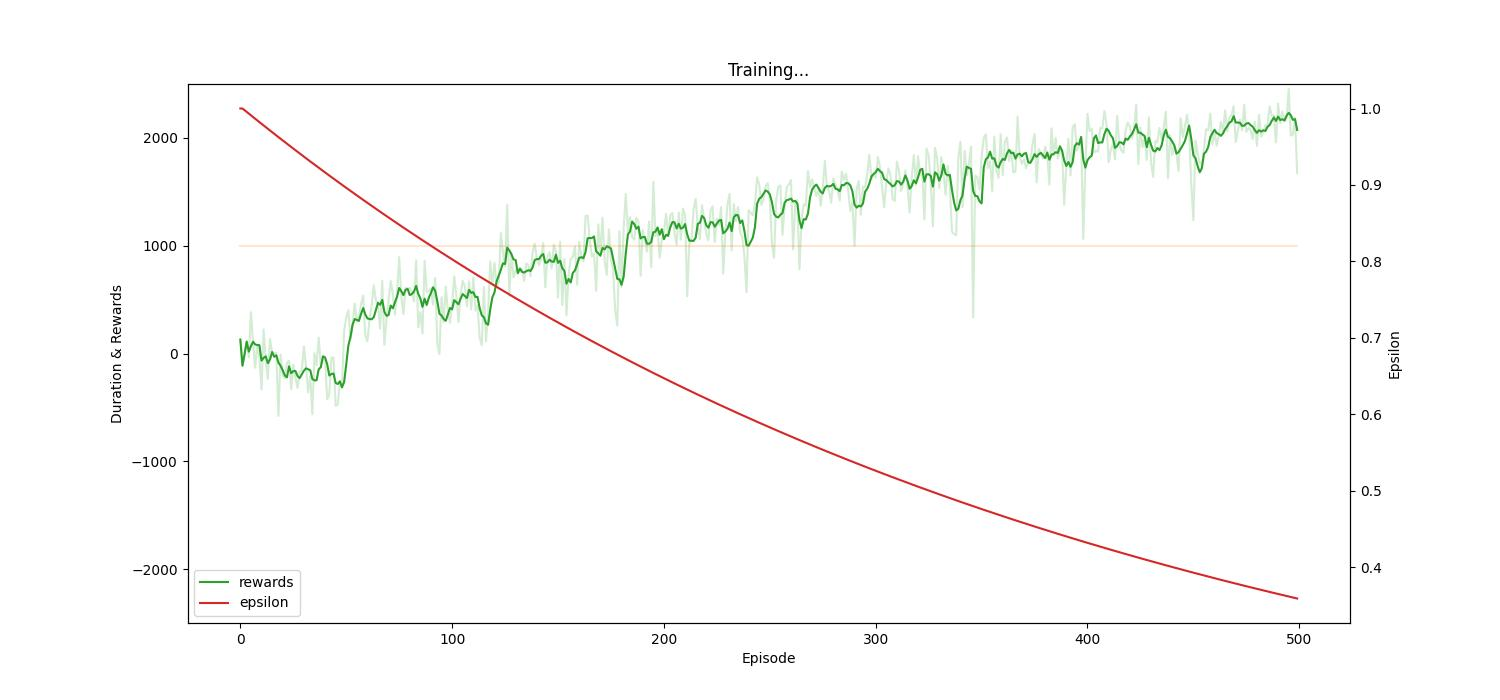
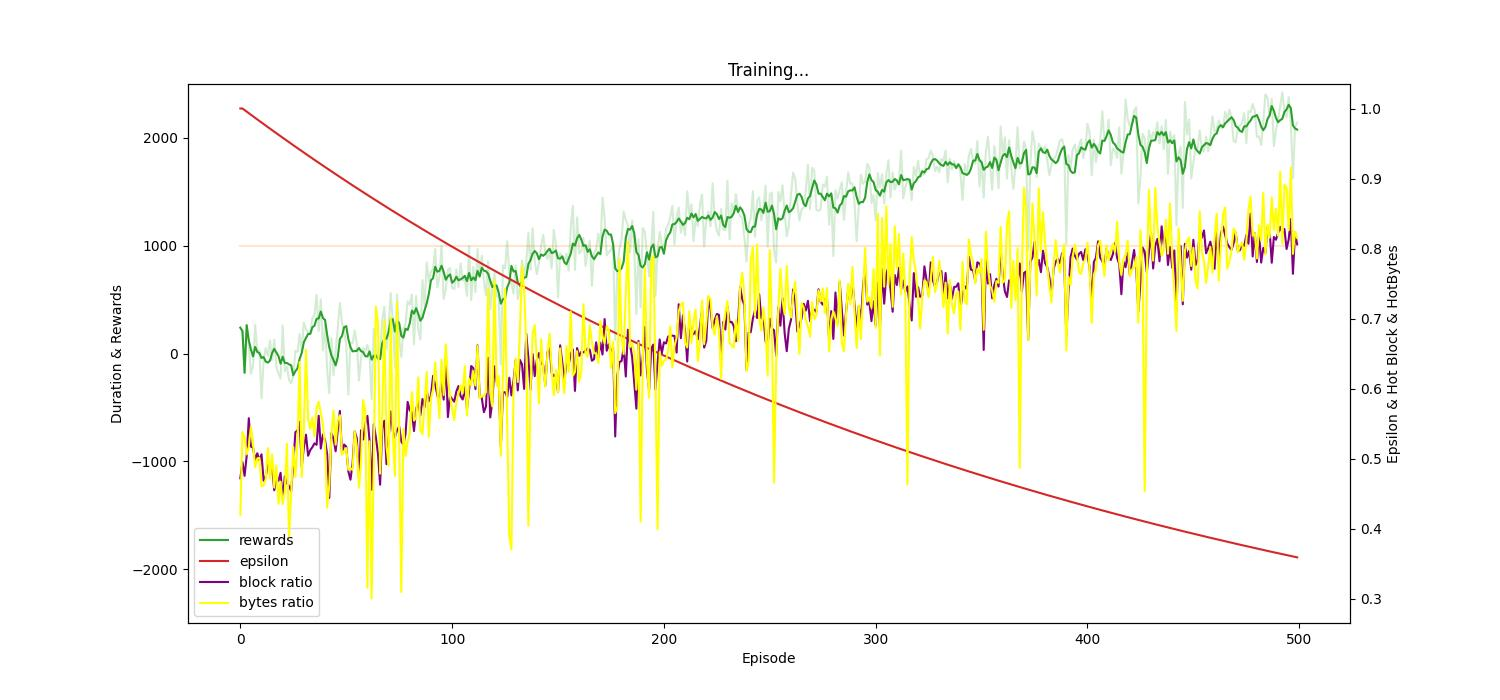
add hot cold ration

diff --git a/python/environment/memory.py b/python/environment/memory.py
@@ -8,6 +8,23 @@ class LogicAddress:
         self._offset = offset  
         self._type = type
 
+        # 檢查兩個Address是否完全一樣
+    def __eq__(self, __o: object) -> bool:
+        if isinstance(__o, LogicAddress):
+            return (self._address == __o._address) and (self._offset == __o._offset) and (self._type == __o._type)
+        return False 
+
+    # print 時顯示的字元
+    def __repr__(self) -> str:
+        return f'[LogicAddress]Address: {self._address}, Offset: {self._offset}, Type: {self._type}'
+
+    # 定義好比較的定義來讓原生的Sort可以運作
+    def __lt__(self, other):
+        if self._address <= other._address:
+            return True
+        elif self._address > other._address:
+            return False
+
     def SetOffset(self, offset: int) -> None:
         self._offset = offset
 
@@ -23,30 +40,20 @@ class LogicAddress:
             raise TypeError('Invalid Type: Not LogicAddress')
         return GetTwoRangeIntersection(self._address, self._address + self._offset, other._address, other._address + other._offset)
 
-    # 檢查兩個Address是否完全一樣
-    def __eq__(self, __o: object) -> bool:
-        if isinstance(__o, LogicAddress):
-            return (self._address == __o._address) and (self._offset == __o._offset) and (self._type == __o._type)
-        return False 
-
-    # print 時顯示的字元
-    def __str__(self) -> str:
-        return f'[LogicAddress]Address: {self._address}, Offset: {self._offset}, Type: {self._type}'
+class LogicMemory:
+    def __init__(self):
+        self.bits = list()  # set of LogicAddress
 
     # print 時顯示的字元
     def __repr__(self) -> str:
-        return f'[LogicAddress]Address: {self._address}, Offset: {self._offset}, Type: {self._type}'
+        output = ''
+        for item in self.bits:
+            output += f'[LogicAddress]Address: {item._address}, Offset: {item._offset}, Type: {item._type}\n'
+        return output
 
-    # 定義好比較的定義來讓原生的Sort可以運作
-    def __lt__(self, other):
-        if self._address <= other._address:
-            return True
-        elif self._address > other._address:
-            return False
-
-class LogicMemory:
-    def __init__(self):
-        self.bits = list()  # set of LogicBits
+    # 根據address來排列bits 
+    def Sort(self) -> None:
+        self.bits = sorted(self.bits)
 
     # 清除到初始狀態
     def ResetAll(self):
@@ -122,13 +129,24 @@ class LogicMemory:
                 coldDuplicateOffset += tempOriginalLogicAddress.GetDuplicate(newLogicAddress)
         return (hotDuplicateOffset, coldDuplicateOffset) 
 
-    # 根據address來排列bits 
-    def Sort(self) -> None:
-        self.bits = sorted(self.bits)
-
-    # print 時顯示的字元
-    def __repr__(self) -> str:
-        output = ''
-        for item in self.bits:
-            output += f'[LogicAddress]Address: {item._address}, Offset: {item._offset}, Type: {item._type}\n'
-        return output
+    # 取得(Hot, Cold) Block數量
+    def GetHotColdBlockNums(self) -> int:
+        hotCount = 0
+        coldCount = 0
+        for address in self.bits:
+            if address._type:
+                hotCount += 1
+            else:
+                coldCount += 1
+        return (hotCount, coldCount)
+    
+    # 取得(Hot, Cold) Bytes長度
+    def GetHotColdBytes(self) -> int:
+        hotBytes = 0
+        coldBytes = 0
+        for address in self.bits:
+            if address._type:
+                hotBytes += address._offset
+            else:
+                coldBytes += address._offset
+        return (hotBytes, coldBytes)

diff --git a/python/model/agent.py b/python/model/agent.py
@@ -25,6 +25,28 @@ class Agent:
         self._hyperParameter = HyperParameter()
         self._valueNetworks = ValueNetworks()
         self._valueNetworks.SetActionSpace(self._environment._actionSpace)
+
+    # 計算hot cold block ratio
+    def GetHotColdBlockRatio(self) -> tuple:
+        (hot, cold) = self._environment._memory.GetHotColdBlockNums()
+        total = hot + cold
+        hotRatio = 0.0
+        coldRatio = 0.0
+        if total != 0:
+            hotRatio = hot / total 
+            coldRatio = cold / total 
+        return (hotRatio, coldRatio)
+
+    # 計算hot cold bytes ratio
+    def GetHotColdBytesRatio(self) -> tuple:
+        (hot, cold) = self._environment._memory.GetHotColdBytes()
+        total = hot + cold
+        hotRatio = 0.0
+        coldRatio = 0.0
+        if total != 0:
+            hotRatio = hot / total 
+            coldRatio = cold / total 
+        return (hotRatio, coldRatio)
         
     # 每一次的遊戲
     def Episode(self, episode):
@@ -39,8 +61,10 @@ class Agent:
             if episode > WARM_UP_EPISODES:
                 X = self._buffer.GetBatchData(BATCH_SIZE)
                 self._valueNetworks.Optimize(X)
-        self._trainHistory.AddHistory([episode, rewardSum, MAX_STEP, self._hyperParameter._epsilon])
-        return rewardSum 
+        (hotBlockRatio, _) = self.GetHotColdBlockRatio()
+        (hotBytesRatio, _) = self.GetHotColdBytesRatio()
+        self._trainHistory.AddHistory([episode, rewardSum, MAX_STEP, self._hyperParameter._epsilon, hotBlockRatio, hotBytesRatio])
+        return rewardSum
 
     # train 
     def Train(self):

diff --git a/python/model/record.py b/python/model/record.py
@@ -7,12 +7,16 @@ class TrainHistory:
         self.rewards = []
         self.actions = []
         self.epsilon = []
+        self.hotBlock = []
+        self.hotBytes = []
 
     def AddHistory(self, datas):
         self.episodes.append(datas[0])
         self.rewards.append(datas[1])
         self.actions.append(datas[2])
         self.epsilon.append(datas[3])
+        self.hotBlock.append(datas[4])
+        self.hotBytes.append(datas[5])
 
     @staticmethod
     def _moving_average(x, periods=5):
@@ -39,8 +43,10 @@ class TrainHistory:
         mean_reward = self._moving_average(self.rewards, periods=5)
         lines.append(ax1.plot(mean_reward, label="rewards", color="C2")[0])    
         ax2 = ax1.twinx()
-        ax2.set_ylabel('Epsilon')
+        ax2.set_ylabel('Epsilon & Hot Block & HotBytes')
         lines.append(ax2.plot(self.epsilon, label="epsilon", color="C3")[0])
+        lines.append(ax2.plot(self.hotBlock, label="block ratio", color="purple")[0])
+        lines.append(ax2.plot(self.hotBytes, label="bytes ratio", color="yellow")[0])
         labs = [l.get_label() for l in lines]
         ax1.legend(lines, labs, loc=3)
         plt.savefig(path)

diff --git a/python/environment/tokenizer.py b/python/environment/tokenizer.py
@@ -2,10 +2,10 @@ class FidTokenizer:
     def __init__(self):
         self.datas = dict()
     
-    def ResetAll(self):
-        self.datas.clear()
-
     def __getitem__(self, key):
         if self.datas.get(key) == None:
             self.datas[key] = len(self.datas)
         return self.datas[key]
+
+    def ResetAll(self):
+        self.datas.clear()
